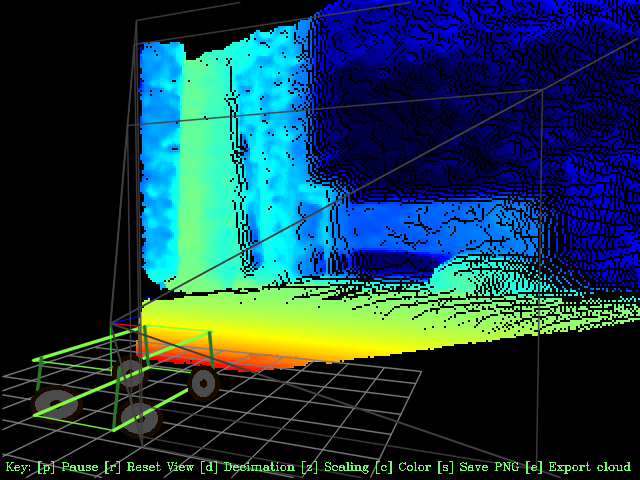
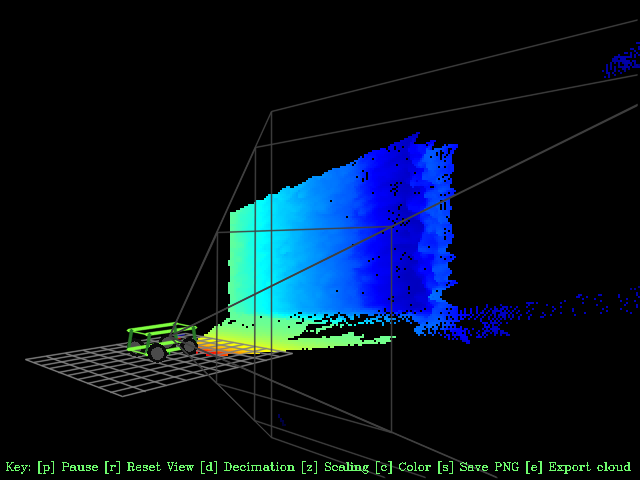
improved car model

diff --git a/main.py b/main.py
@@ -27,7 +27,7 @@ frame_height = 480
 fps = 30
 generate_color = True
 generate_depth = True
-camera_car_offset = [0.01, 0.1, -1.95]  # The offset from camera to car pivot point. [w h l]
+camera_car_offset = [0.01, 0, -2.05]  # The offset from camera to car pivot point. [w h l]
 car_size = [0.175, 0.1, 0.3]  # [w h l]
 blind = 0  # For debugging w/o camera
 
@@ -288,6 +288,25 @@ def viewer(width=640, height=480, fps=30):
         # perform uv-mapping
         out[i[m], j[m]] = color[u[m], v[m]]
 
+    def cicle(out, pos, coord, radius, rotation=np.eye(3), color=None, thickness=-1):
+        #  fixme wheel angle
+        if color is None:
+            color = [75, 75, 75]
+        [x, y, z] = coord
+        pt_hub = view(pos + np.dot((x, y, z), rotation))
+        pt_rad = view(pos + np.dot((x, y-radius, z-radius), rotation))
+        p0 = project(pt_hub.reshape(-1, 3))[0]
+        p1 = project(pt_rad.reshape(-1, 3))[0]
+        if np.isnan(p0).any() or np.isnan(p1).any():
+            return
+        rad = np.subtract(p0, p1)
+        p = tuple(p0.astype(int))
+
+        ang = np.tan(np.abs(rad[0]/rad[1])) * 90 / np.pi
+
+        rad = tuple(np.abs(rad).astype(int))
+        cv2.ellipse(out, p, rad, ang, 0.0, 360.0, color, thickness)
+
     out = np.empty((h, w, 3), dtype=np.uint8)
 
     def car_model(out, pos=None, car_size=None, rotation=np.eye(3), color=(0x40, 0x180, 0x80)):
@@ -296,46 +315,51 @@ def viewer(width=640, height=480, fps=30):
             pos = [0, 0, 1]
         if car_size is None:
             car_size = [2, 1.5, 7.5]
-        r = car_size
-        size = 1
-        n = 1
+
+          # Generate wheels
+        def wheel(side):
+            iw = side
+            radius = 0.05
+            width = 0  # 0.1 add extra circle for depth
+            for k in [0, width]:  # inside/outside of wheel
+                for jw in [-1, 1]:
+                    cicle(out, pos, ((1.1 + k) * iw * x, y, 0.65 * jw * z), radius=radius)
+                    cicle(out, pos, ((1.1 + k) * iw * x, y, 0.65 * jw * z), radius=radius, color=[10,10,10], thickness=2)
+                    if k:
+                        pass
+                        #pt1 = view(pos + np.dot(((1.1 + k) * iw * x, y+radius, 0.65 * jw * z), rotation))
+                        #pt2 = view(pos + np.dot(((1.1) * iw * x, y+ radius, 0.65 * jw * z), rotation))
+                        #line3d(out, pt1, pt2, color=[250, 10, 25], thickness=2)
+                        #cicle(out, pos, ((1.11 + k) * iw * x, y, 0.65 * jw * z), radius=0.01, color=[0, 10, 25], thickness=4)
+
+
+        def body():
+            # Generate body
+            for i in [-1, 1]:
+                for j in [-1, 1]:
+                    line3d(out, view(pos + np.dot((j*x, i*y, -z), rotation)),
+                           view(pos + np.dot((j*x, i*y, z), rotation)), color, thickness=2)
+
+                    line3d(out, view(pos + np.dot((-x, i*y, j*z), rotation)),
+                           view(pos + np.dot((x, i*y, j*z), rotation)), color, thickness=1)
+
+                    line3d(out, view(pos + np.dot((i*x, -y, 0.9*j*z), rotation)),
+                           view(pos + np.dot((i*x, y, j*z), rotation)), [40,120,40], thickness=2)
+
         pos = np.array(pos)
-        s = size / float(n)
-        s2 = 0.25 * size
-        #s3 = 0.75
-        [w, h , l] = car_size
-        for i in [-1, 1]:
-            for j in [-1, 1]:
-                x, y, z = w/2, h/2, l/2
-                # Generate body
-                line3d(out, view(pos + np.dot((j*x, i*y, -z), rotation)),
-                       view(pos + np.dot((j*x, i*y, z), rotation)), color, thickness=2)
+        [w, h, l] = car_size
+        # center of car
+        x, y, z = w / 2, h / 2, l / 2
+        # get viewed side of car
+        side = np.sign(-view(pos + np.dot((x+0.1, 0, 0), rotation))[0]).astype(int)
+        # Generate car
+        wheel(-side)
+        body()
+        wheel(side)
 
-                line3d(out, view(pos + np.dot((-x, i*y, j*z), rotation)),
-                       view(pos + np.dot((x, i*y, j*z), rotation)), color, thickness=1)
 
-                line3d(out, view(pos + np.dot((i*x, -y, 0.9*j*z), rotation)),
-                       view(pos + np.dot((i*x, y, j*z), rotation)), [40,120,40], thickness=2)
 
-                # Generate wheel
-                # We need 2 points to estimate wheel shape
-                r = 0.05  # radius
 
-                pt_hub = view(pos + np.dot((1.1 * i * x, y, 0.65 * j * z), rotation))
-                pt_rad = view(pos + np.dot((1.1 * i * x, y-r, 0.65 * j * z-r), rotation))
-                p0 = project(pt_hub.reshape(-1, 3))[0]
-                p1 = project(pt_rad.reshape(-1, 3))[0]
-                if np.isnan(p0).any() or np.isnan(p1).any():
-                    return
-                rad = np.subtract(p0, p1)
-                p = tuple(p0.astype(int))
-
-                #ang = 90 + np.arctan2(rad[1], rad[0]) * 360 / np.pi
-
-                rad = tuple(np.abs(rad).astype(int))
-                cv2.ellipse(out, p, rad, 0, 0.0, 360.0, [75, 75, 75], -1)
-                cv2.ellipse(out, p, (int(rad[0]/4), int(rad[1]/4)), 0, 0.0, 360.0, [0, 10, 25], -1)
-                cv2.ellipse(out, p, rad, 0, 0.0, 360.0, [0, 10, 25], 4)
 
 
     while True:
